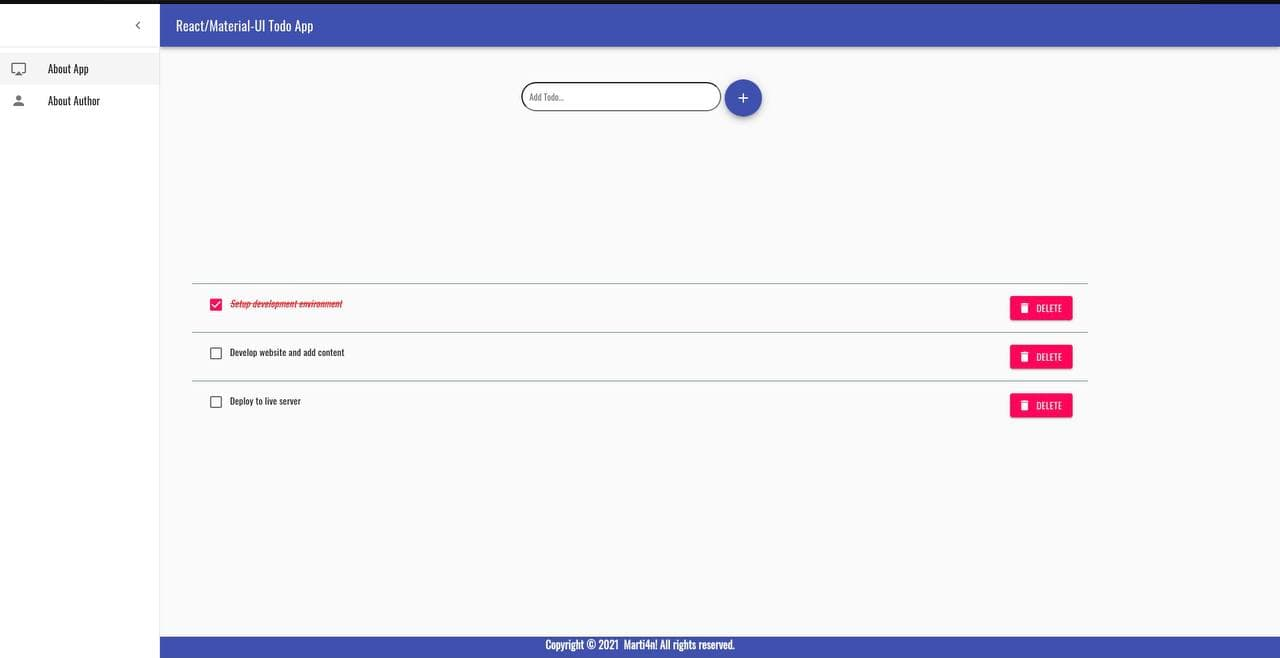
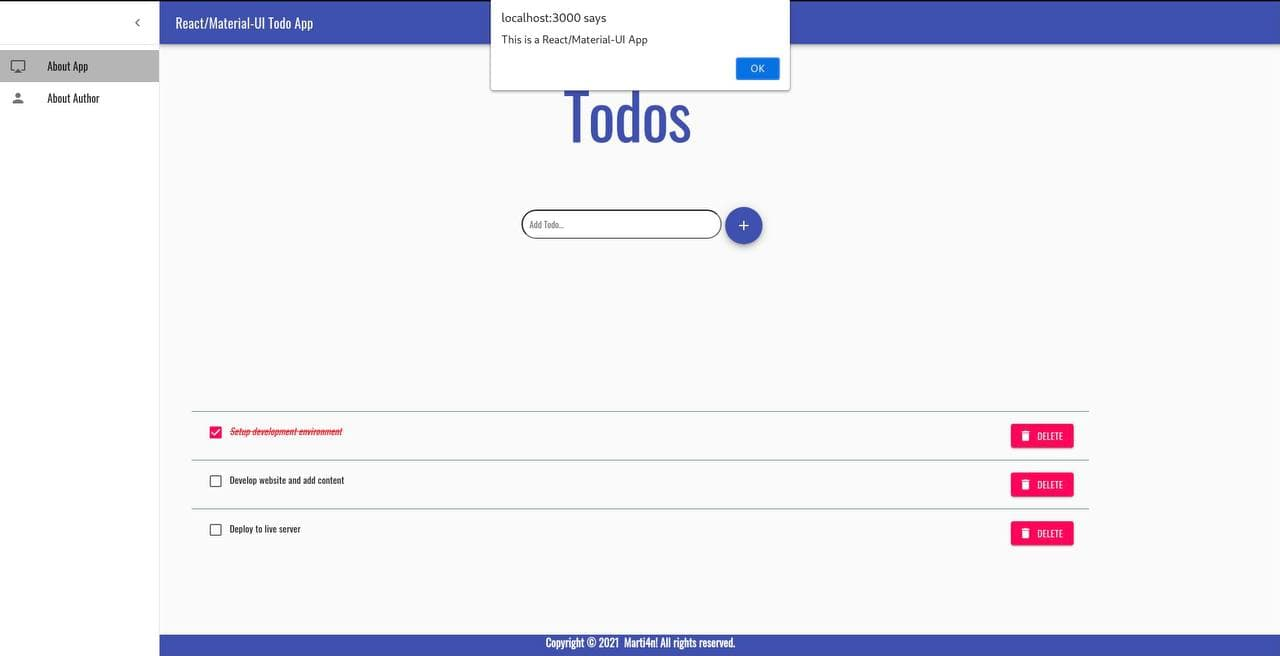
Verified by Marti4n v1.2

diff --git a/src/components/AddTodo/AddTodo.js b/src/components/AddTodo/AddTodo.js
@@ -1,5 +1,5 @@
 import React, {Component} from "react";
-import { Fab } from '@material-ui/core';
+import {Fab, Typography} from '@material-ui/core';
 import AddIcon from '@material-ui/icons/Add';
 
 class AddTodo extends Component {
@@ -21,6 +21,14 @@ class AddTodo extends Component {
   };
   render() {
     return (<React.Fragment>
+      <Typography style={{
+        position:"absolute",
+        left:"44%",
+        margin:"auto",
+        color :"#3f51b5"
+      }}
+      variant="h1"
+      >Todos</Typography>
       <div style={{
           display: "flex",
           justifyContent: "center",
@@ -33,7 +41,8 @@ class AddTodo extends Component {
               padding: "10px",
               borderRadius: "50px",
               margin: "5px",
-              outline: "0"
+              outline: "0",
+              marginTop: "200px",
             }}/>
           <Fab type="submit" value="Submit" color="primary" aria-label="add">
             <AddIcon/>

diff --git a/README.md b/README.md
@@ -5,3 +5,5 @@ https://ciamac-da.github.io/react-todo-app-47
 ![](public/assets/2.jpg)
 
 ![](public/assets/3.jpg)
+
+![](public/assets/4.jpg)
